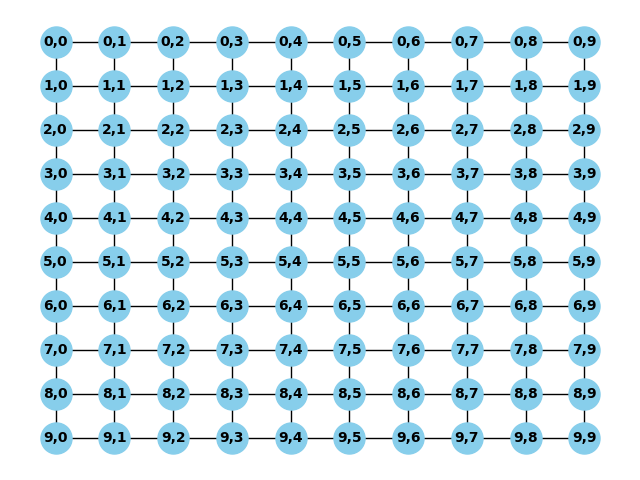
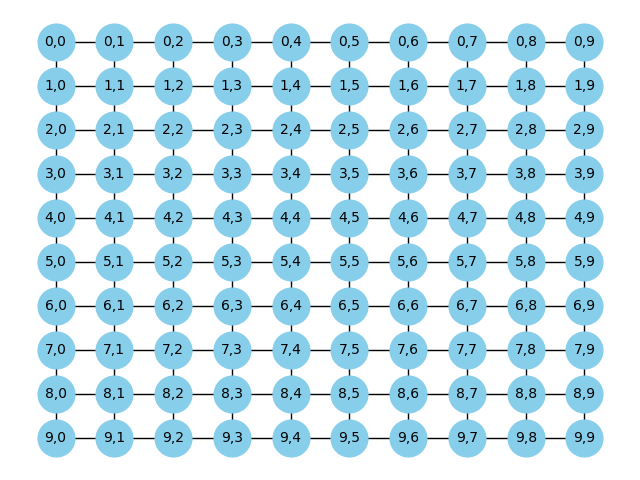
funcionando
erro ao gerar obstaculos para serem representados no name de cada nó

Changed region(s): [[0.0312, 0.0312, 0.9688, 0.9688]]

diff --git a/Code/Maze.py b/Code/Maze.py
@@ -8,7 +8,7 @@ class Maze:
 
     def __init__(self, size):
         self._size = size
-        self._matrix_maze = [[Node(0, 0, x, y) for y in range(self._size)] for x in range(self._size)]
+        self._matrix_maze = [[Node(0, x, y) for y in range(self._size)] for x in range(self._size)]
 
     def __getitem__(self, index):
         return self._matrix_maze[index]
@@ -23,7 +23,7 @@ class Maze:
     def print_maze(self):
         for line in self._matrix_maze:
             for node in line:
-                print(f"{node.name} => {node.value}",end="  ",)
+                print(f"{node.name}",end="  ",)
             print()
     
     
@@ -39,7 +39,12 @@ class Maze:
 
             if aux_dict.get((line_num,column_num)) != True:
                 cont += 1
-                self._matrix_maze[line_num][column_num].value = -1
+                
+                ## Como fazer o nó que será obstaculo, assumir o -1 e o name alterar
+                temp_node: Node = Node(0,line_num,column_num);
+                temp_node.obstacle = -1;
+                self._matrix_maze[line_num][column_num] = temp_node
+                
                 
          
 

diff --git a/Code/Generate.py b/Code/Generate.py
@@ -17,6 +17,9 @@ class Generate:
     
     def generate_graph(self):
         
+        self.maze_matrix.generate_obstacles() # gera os obstaculos da matriz
+        self.maze_matrix.print_maze()
+
         for i in range(0, self.size_maze):
             for j in range(0, self.size_maze):
                
@@ -50,7 +53,7 @@ class Generate:
         labels = {node: node.name for node in self.maze_graph.nodes}
         edge_labels = nx.get_edge_attributes(self.maze_graph, 'weight')
 
-        nx.draw(self.maze_graph, pos, labels=labels, with_labels=True, node_size=500, node_color='skyblue', font_size=10, font_color='black', font_weight='bold')
+        nx.draw(self.maze_graph, pos, labels=labels, with_labels=True, node_size=700, node_color='skyblue', font_size=10, font_color='black')
         nx.draw_networkx_edge_labels(self.maze_graph, pos, edge_labels=edge_labels)
         
         plt.savefig("assets/matrix_to_graph.png")

diff --git a/Code/Node.py b/Code/Node.py
@@ -1,13 +1,12 @@
 class Node:
     weight: float
-    value: int
+    obstacle: int
     position_x: int
     position_y: int
     name: str
 
-    def __init__(self, weight: float, value: int, x: int, y: int):
-        self.weight = weight
-        self.value = value
+    def __init__(self, weight: float, x: int, y: int):
+        self.weight = weight 
         self.position_x = x
         self.position_y = y
         self.name = f"{self.position_x},{self.position_y}"
